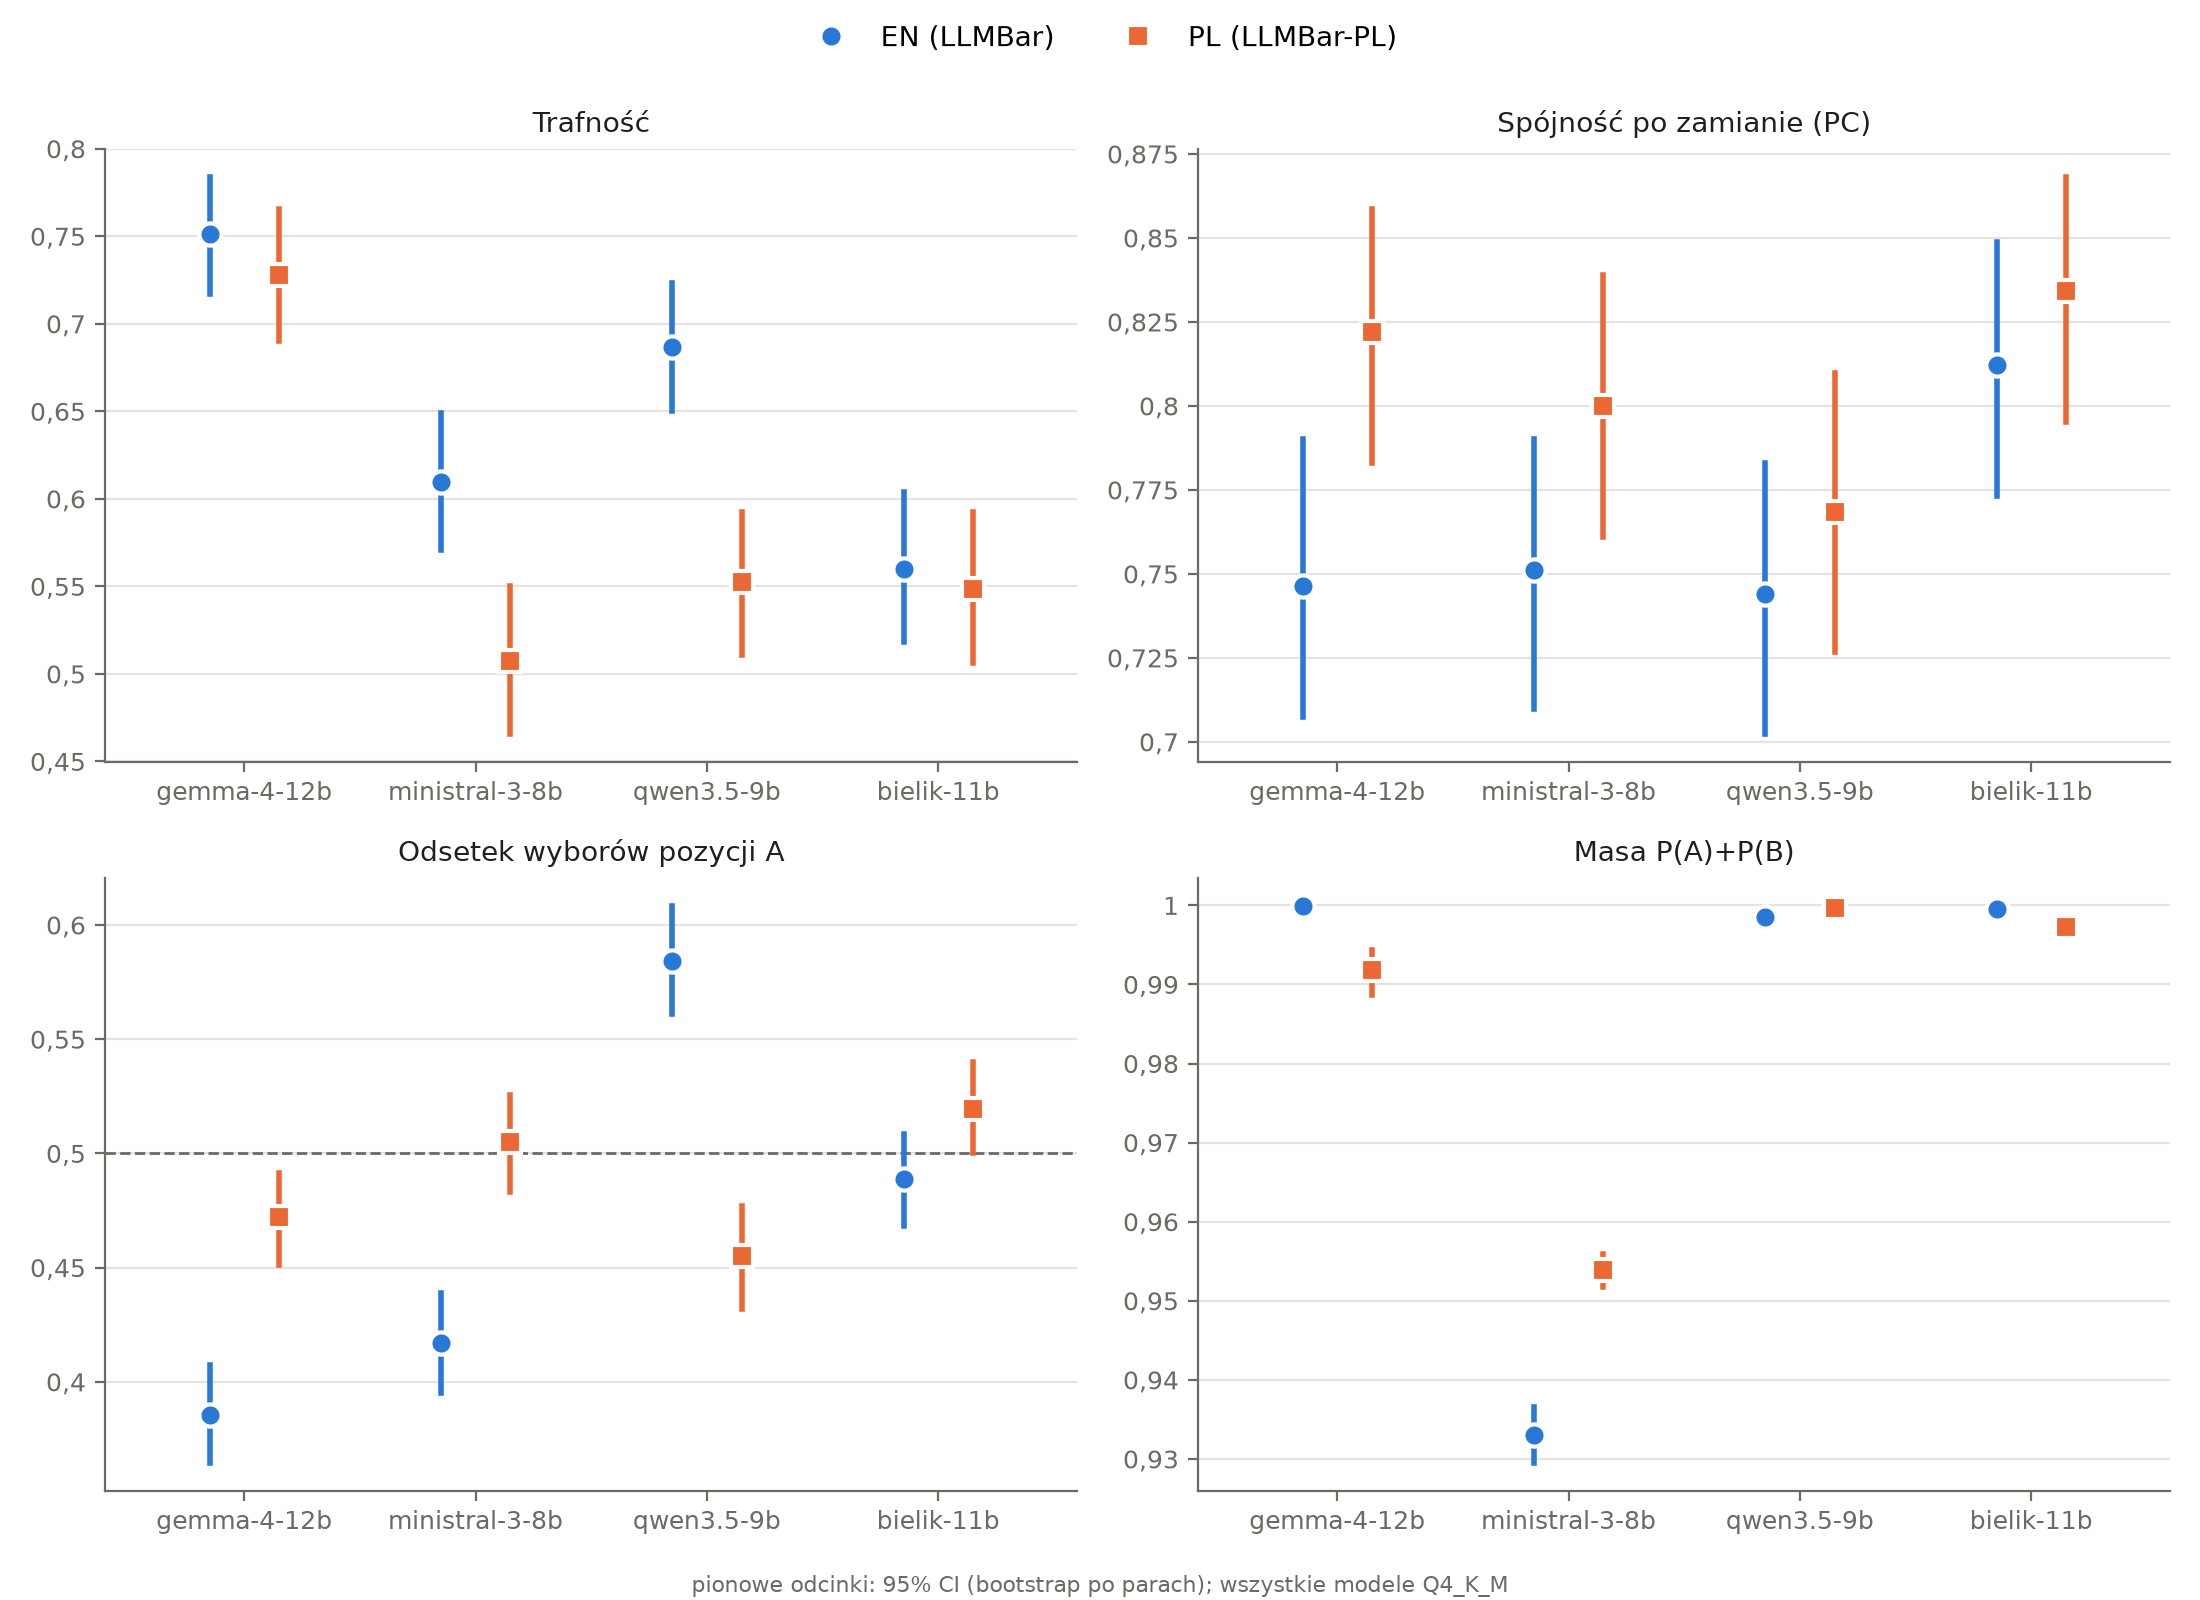
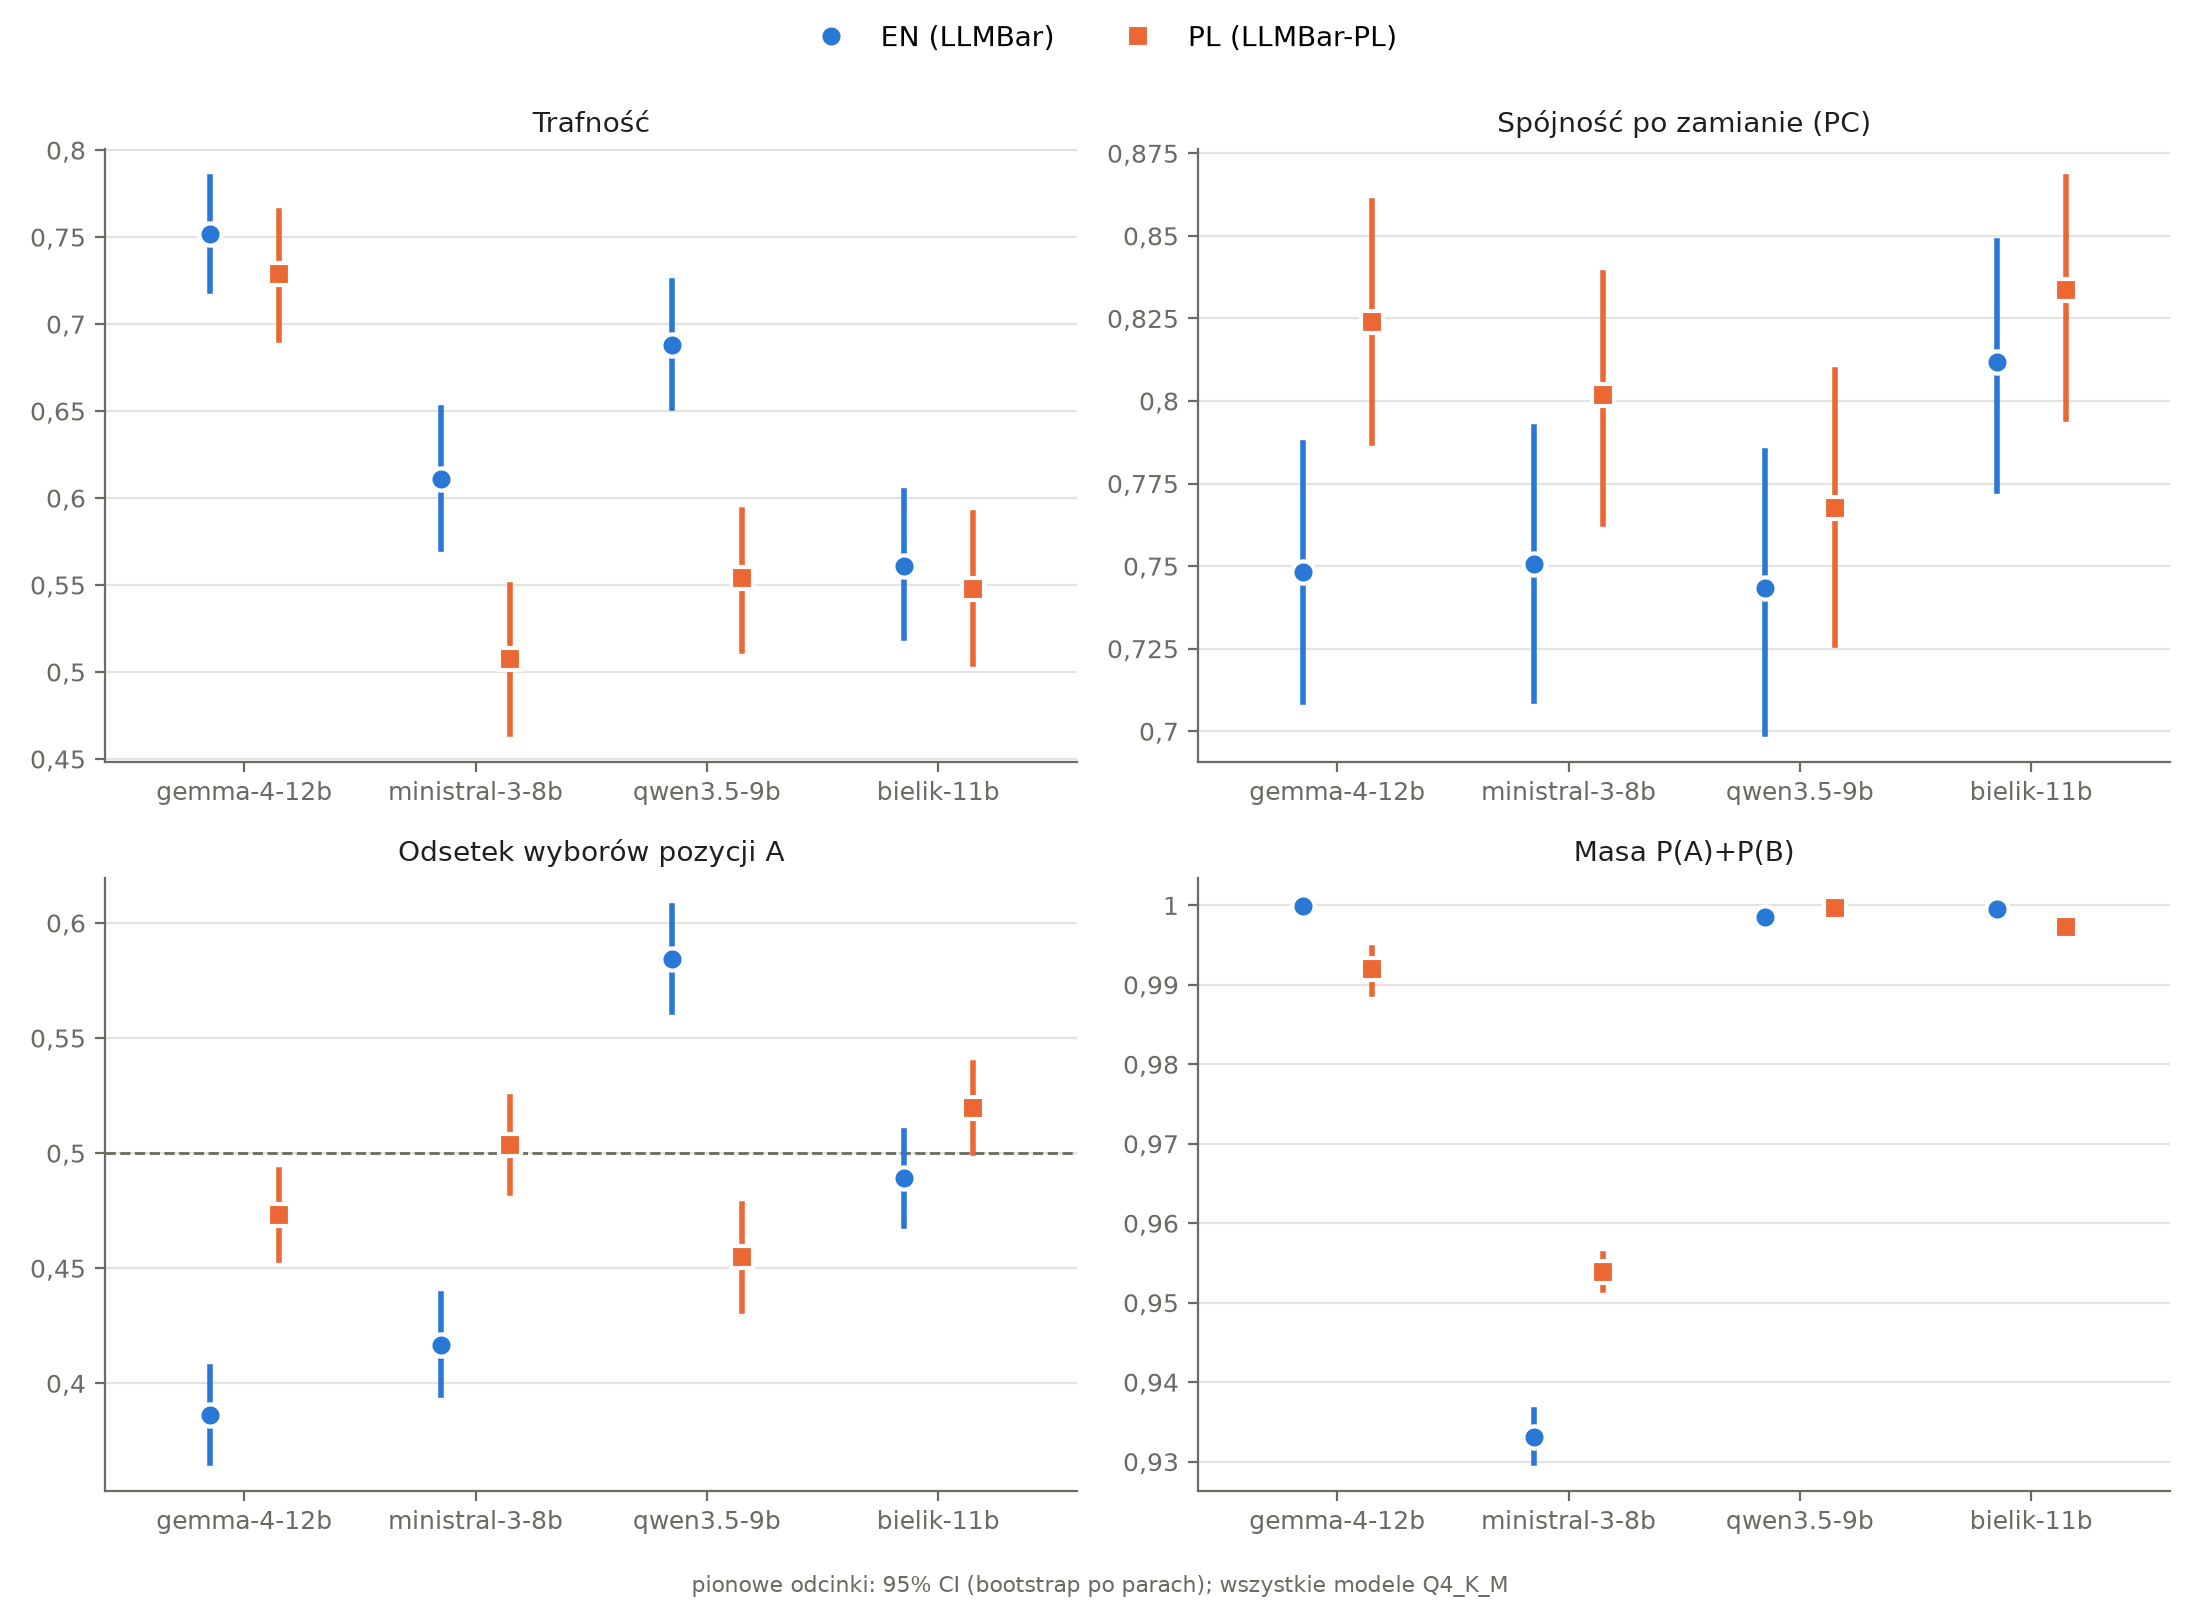
P3: robust z 10 wykluczonymi parami; klient HTTP z keep-alive i ponawianiem

diff --git a/src/judge/client.py b/src/judge/client.py
@@ -118,6 +118,24 @@ def _letter_probs(top: list[dict]) -> tuple[float, float]:
     return pa, pb
 
 
+# Jedno trwałe połączenie (keep-alive) zamiast nowego gniazda na każdą ocenę. Bez tego Windows
+# przy dziesiątkach tysięcy zapytań potrafi wyczerpać porty efemeryczne (WinError 10048).
+_HTTP = httpx.Client(timeout=None)
+
+
+def _post_with_retry(url: str, body: dict, timeout: float, attempts: int = 5) -> httpx.Response:
+    """Ponawia wyłącznie błędy połączenia (np. chwilowy brak portu); błędy HTTP zwraca od razu."""
+    for i in range(attempts):
+        try:
+            return _HTTP.post(url, json=body, timeout=timeout)
+        except (httpx.ConnectError, httpx.RemoteProtocolError, httpx.ReadError,
+                httpx.WriteError, OSError):
+            if i == attempts - 1:
+                raise
+            time.sleep(2 ** i)
+    raise RuntimeError("unreachable")
+
+
 def judge(base_url: str, messages: list[dict], model: ModelSpec, *, temperature: float,
           seed: int, top_logprobs: int, use_grammar: bool = True,
           max_tokens: int = 1, timeout: float = 600) -> Verdict:
@@ -135,7 +153,7 @@ def judge(base_url: str, messages: list[dict], model: ModelSpec, *, temperature:
         body["grammar"] = VERDICT_GRAMMAR
     t0 = time.time()
     try:
-        r = httpx.post(f"{base_url}/v1/chat/completions", json=body, timeout=timeout)
+        r = _post_with_retry(f"{base_url}/v1/chat/completions", body, timeout)
         r.raise_for_status()
         ch = r.json()["choices"][0]
         text = ch["message"].get("content") or ""

diff --git a/results/p3/report_robust/table_p3.tex b/results/p3/report_robust/table_p3.tex
@@ -2,16 +2,16 @@
 \toprule
 Model & Język & Trafność & $\kappa$ & PC & Pozycja A & Masa A+B \\
 \midrule
-gemma-4-12b & EN & 0,751 & 0,502 & 0,746 & 0,385 & 1,000 \\
-gemma-4-12b & PL & 0,728 & 0,456 & 0,822* & 0,472* & 0,992 \\
+gemma-4-12b & EN & 0,752 & 0,503 & 0,748 & 0,386 & 1,000 \\
+gemma-4-12b & PL & 0,729 & 0,457 & 0,824* & 0,473* & 0,992 \\
 \midrule
-ministral-3-8b & EN & 0,610 & 0,219 & 0,751 & 0,417 & 0,933 \\
-ministral-3-8b & PL & 0,507* & 0,013 & 0,800 & 0,505* & 0,954 \\
+ministral-3-8b & EN & 0,611 & 0,222 & 0,751 & 0,417 & 0,933 \\
+ministral-3-8b & PL & 0,507* & 0,013 & 0,802 & 0,504* & 0,954 \\
 \midrule
-qwen3.5-9b & EN & 0,687 & 0,374 & 0,744 & 0,584 & 0,998 \\
-qwen3.5-9b & PL & 0,552* & 0,105 & 0,768 & 0,455* & 1,000 \\
+qwen3.5-9b & EN & 0,688 & 0,377 & 0,743 & 0,584 & 0,999 \\
+qwen3.5-9b & PL & 0,554* & 0,108 & 0,768 & 0,455* & 1,000 \\
 \midrule
-bielik-11b & EN & 0,560 & 0,118 & 0,812 & 0,489 & 1,000 \\
-bielik-11b & PL & 0,549 & 0,096 & 0,834 & 0,520* & 0,997 \\
+bielik-11b & EN & 0,561 & 0,121 & 0,812 & 0,489 & 1,000 \\
+bielik-11b & PL & 0,548 & 0,094 & 0,834 & 0,520* & 0,997 \\
 \bottomrule
 \end{tabular}

diff --git a/scripts/report_p3.py b/scripts/report_p3.py
@@ -57,6 +57,7 @@ LANG_DEPENDENT = {  # klucz pary bez prefiksu zbioru
     "Natural/67",              # antonim "cogent"
     "Natural/75",              # synonim słowa w nawiasie
     "Adversarial/GPTInst/28",  # sortowanie alfabetyczne nazw owoców
+    "Adversarial/Manual/25",   # błędy gramatyczne w angielskich zdaniach (tłumacz je poprawił)
     "Adversarial/Manual/39",   # Wielkie Litery Na Początku Słów
     "Adversarial/Neighbor/55", # rymowany dwuwiersz
     "Adversarial/Neighbor/133",  # słowa 8-literowe
